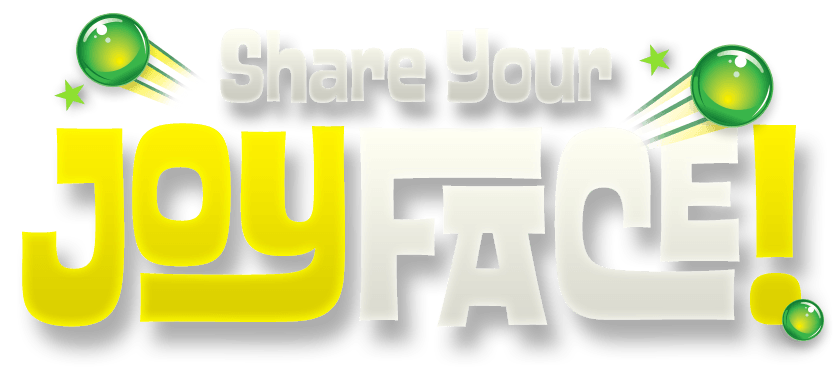
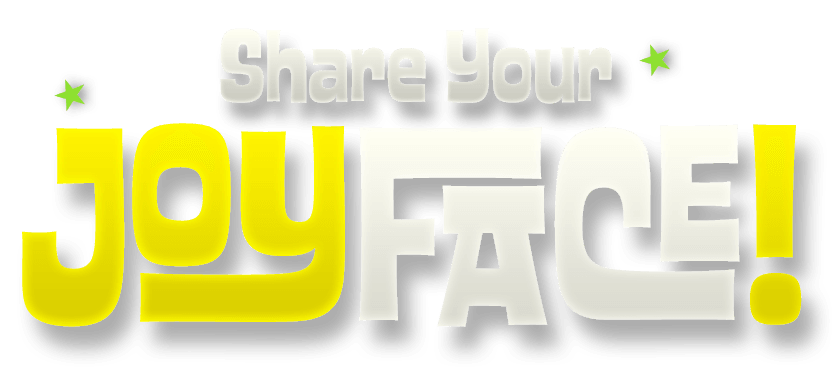
Homepage bubble changes.

Changed region(s): [[0.7429, 0.1173, 0.9286, 0.3813], [0.0929, 0.0293, 0.2476, 0.2933], [0.9286, 0.792, 0.9905, 0.9387]]

diff --git a/public/assets/css/styles.css b/public/assets/css/styles.css
@@ -918,6 +918,10 @@ footer {
     width: 120px;
     height: 120px;
     background: url('../images/bubble-small.png') no-repeat; }
+  .bubble.xsmall {
+    width: 105px;
+    height: 105px;
+    background: url('../images/bubble-xsmall.png') no-repeat; }
 
 @media (max-width: 767px) {
   .bubbles {
@@ -998,6 +1002,14 @@ footer {
 #b3-4 {
   top: 3200px;
   left: 58%; }
+
+#b3-5 {
+  top: 150px;
+  left: 53%; }
+
+#b3-6 {
+  top: 170px;
+  left: 16%; }
 
 .home-hero {
   -webkit-box-shadow: inset 0px 30px 100px 0px rgba(0, 0, 0, 0.4);

diff --git a/public/assets/scss/_parallax-bubbles.scss b/public/assets/scss/_parallax-bubbles.scss
@@ -40,6 +40,11 @@
 		height: 120px;
 		background: url('../images/bubble-small.png') no-repeat;
 	}
+	&.xsmall {
+		width: 105px;
+		height: 105px;
+		background: url('../images/bubble-xsmall.png') no-repeat;
+	}
 }
 
 @media (max-width: 767px)
@@ -130,6 +135,14 @@
 #b3-4 {
 	top: 3200px;
 	left: 58%;
+}
+#b3-5 {
+	top: 150px;
+	left: 53%;
+}
+#b3-6 {
+	top: 170px;
+	left: 16%;
 }
 
 

diff --git a/app/views/home.blade.php b/app/views/home.blade.php
@@ -93,6 +93,8 @@
 	<div class="bubble large" id="b3-2"></div>
 	<div class="bubble medium" id="b3-3"></div>
 	<div class="bubble xlarge" id="b3-4"></div>
+	<div class="bubble xsmall" id="b3-5"></div>
+	<div class="bubble xsmall" id="b3-6"></div>
 </div>
 
 @stop
